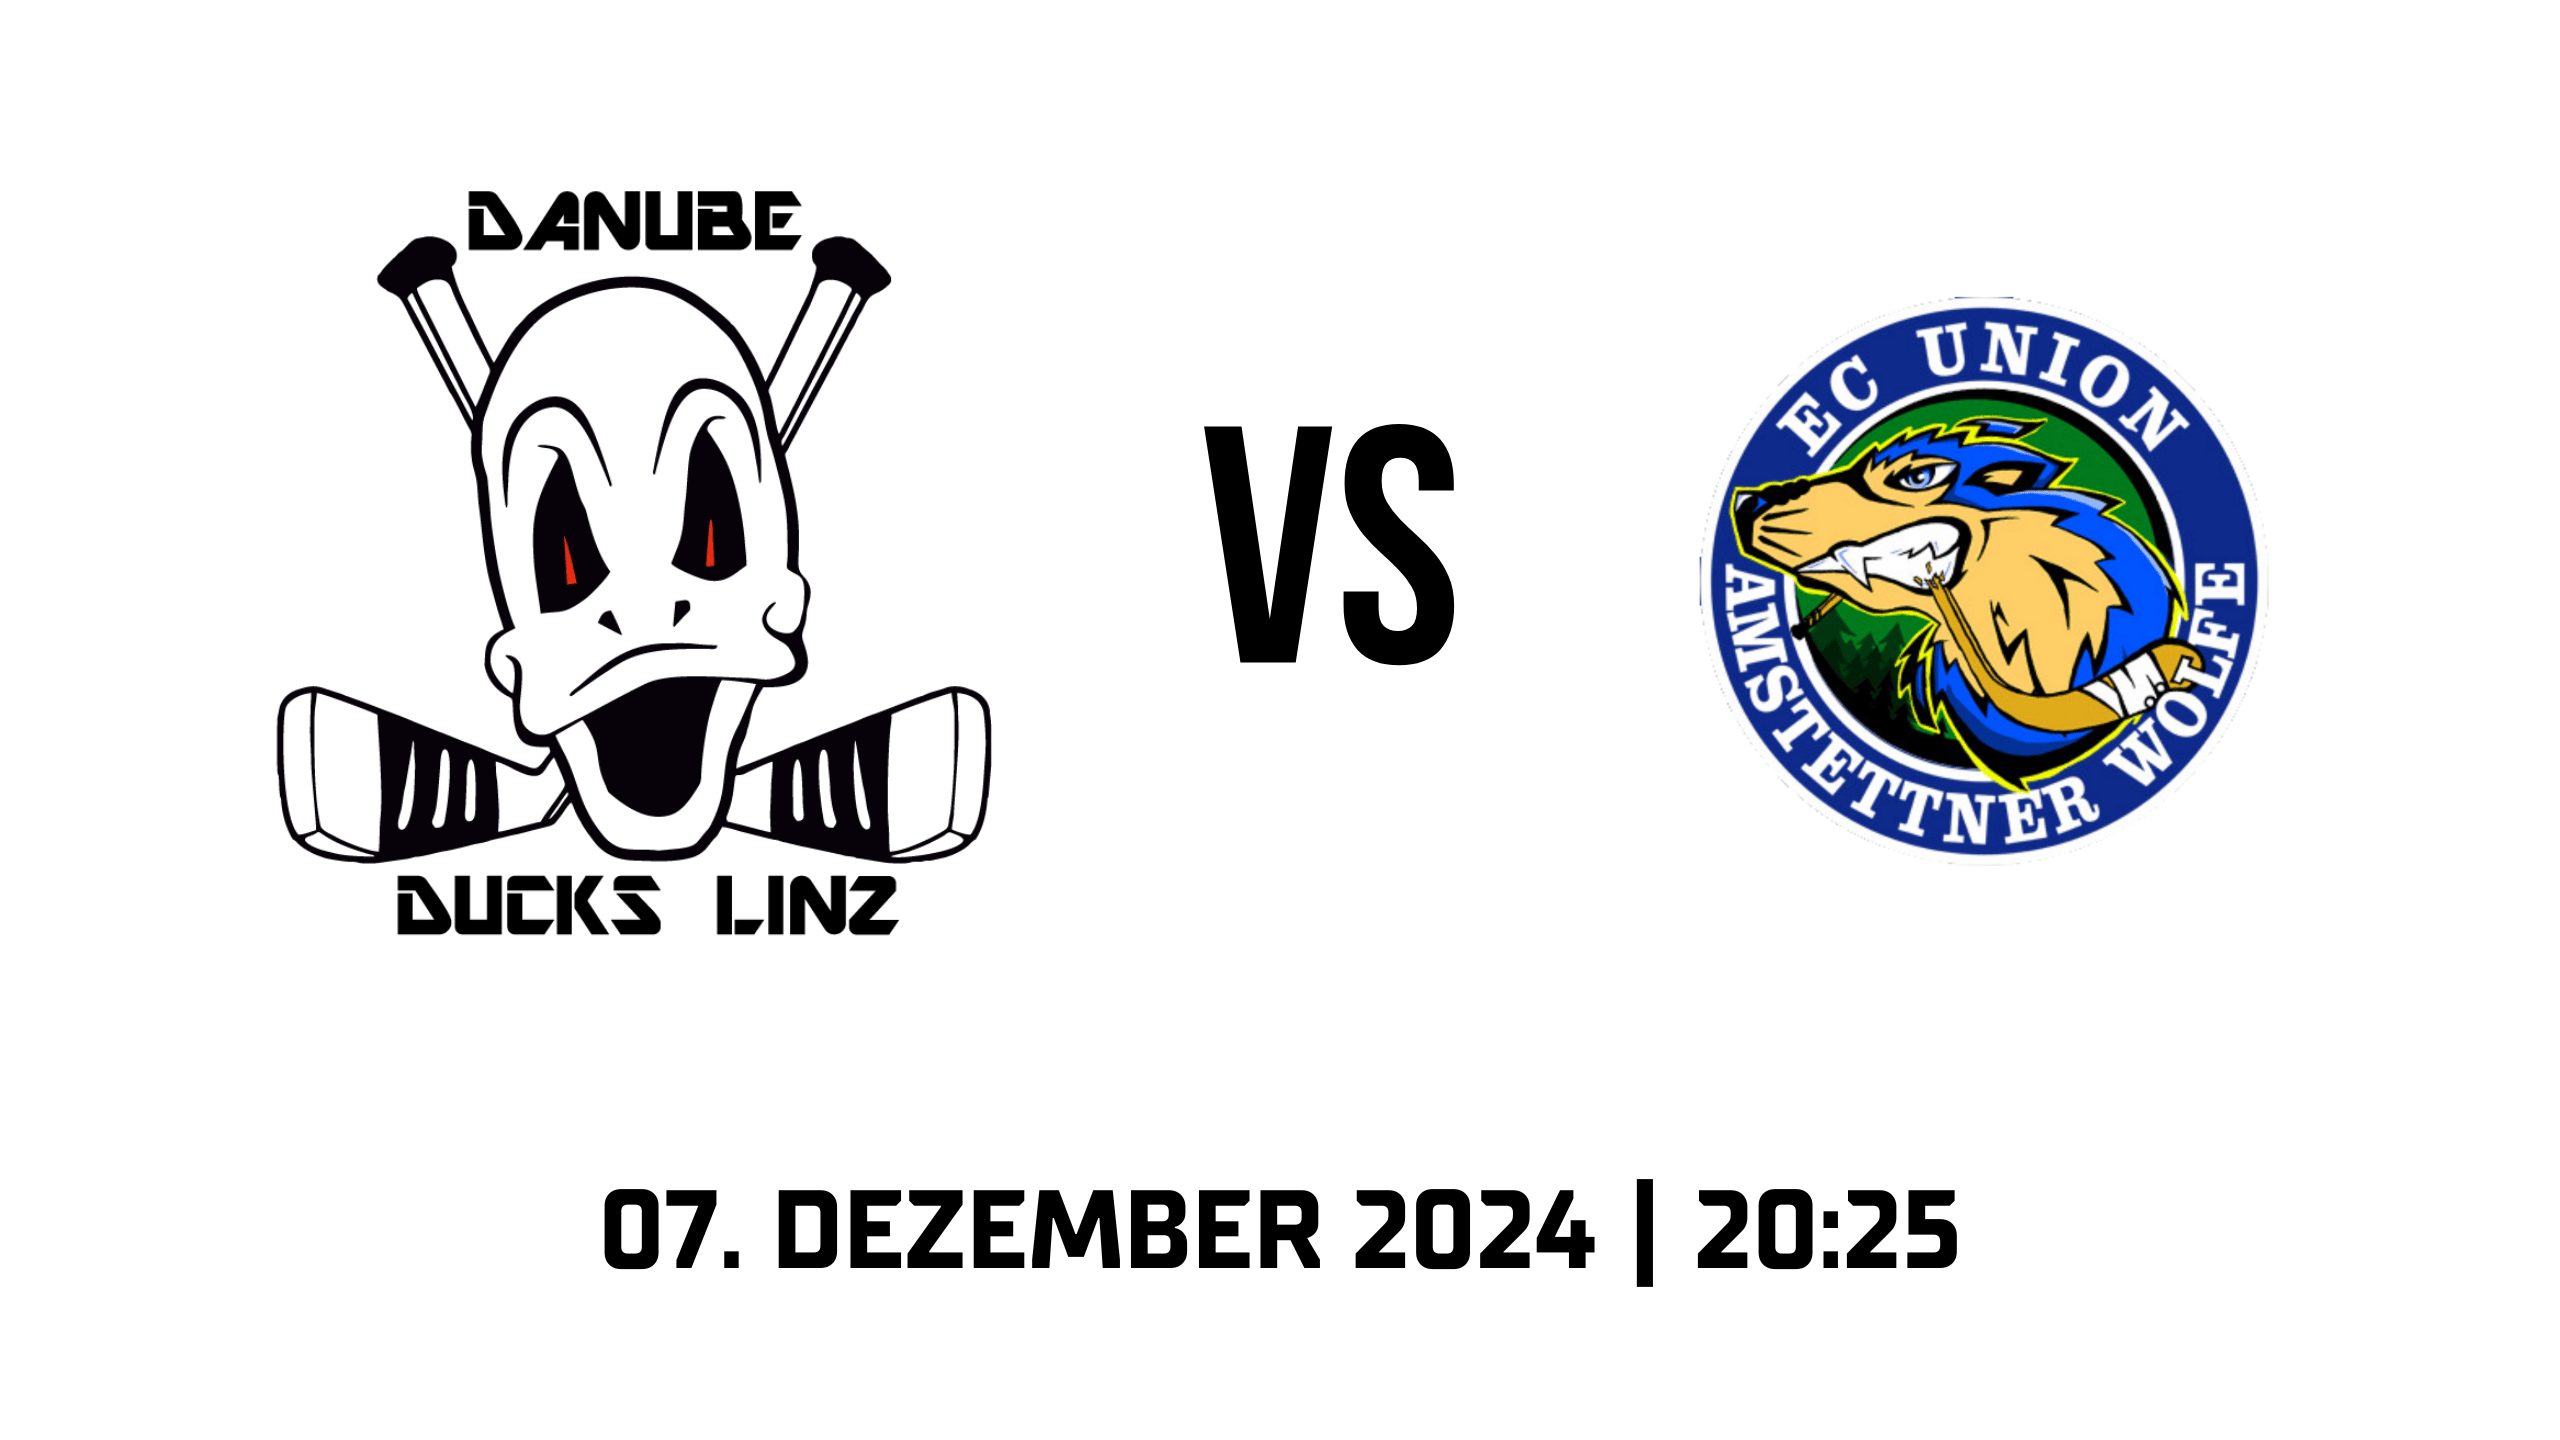
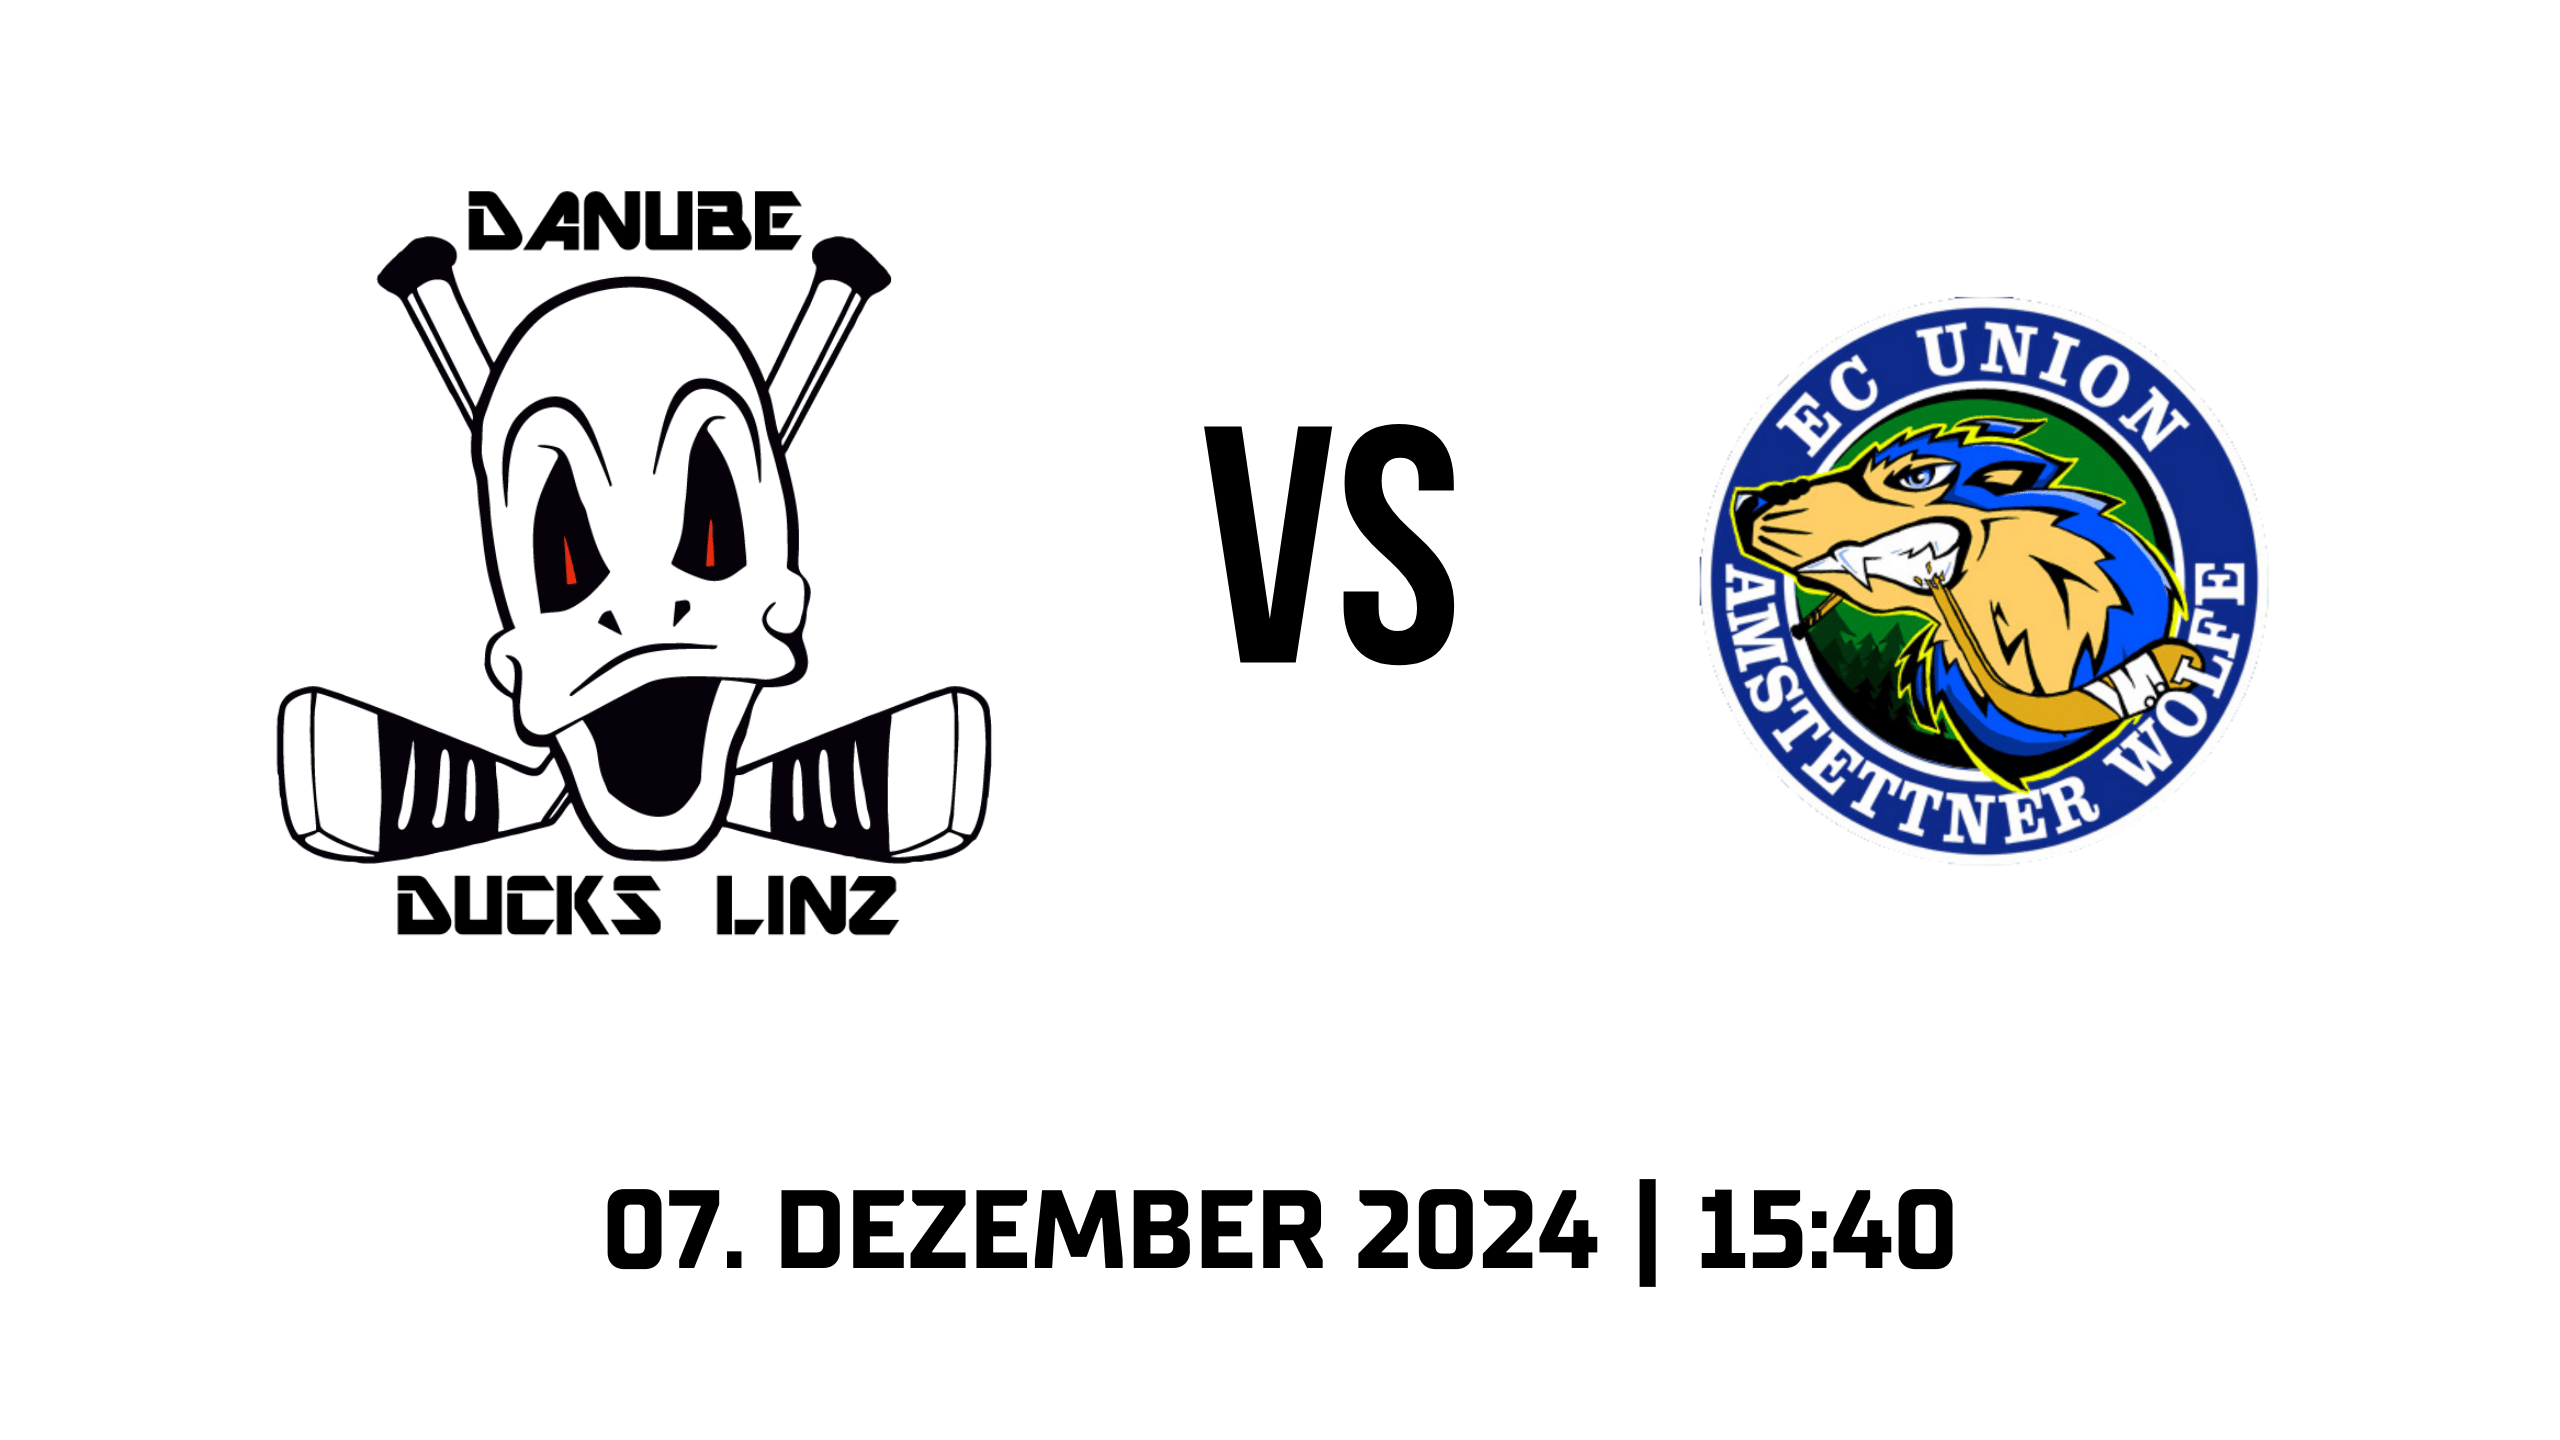
Uhrzeit Änderung

Changed region(s): [[0.6562, 0.8125, 0.7812, 0.9062], [0.25, 0.8438, 0.5, 0.875], [0.5312, 0.8438, 0.625, 0.875]]

diff --git a/script.js b/script.js
@@ -19,7 +19,7 @@ window.addEventListener('scroll', function() {
 
 
 // Setze das Datum für das nächste Spiel (Jahr, Monat (0-basiert), Tag, Stunde, Minute)
-const nextGameDate = new Date("2024-12-07T20:25:00").getTime();
+const nextGameDate = new Date("2024-12-07T15:40:00").getTime();
 
 // Update den Countdown jede Sekunde
 const countdownFunction = setInterval(function() {

diff --git a/Spielplan-Unterliga.html b/Spielplan-Unterliga.html
@@ -111,7 +111,7 @@
                 </tr>
                 <tr>
                     <td class="bold">07.12.2024</td>
-                    <td>20:25</td>
+                    <td>15:40</td>
                     <td>
                         <div class="team-container team-container-heim">
                             <span>ASKÖ EV Danube Ducks Linz 2</span>
